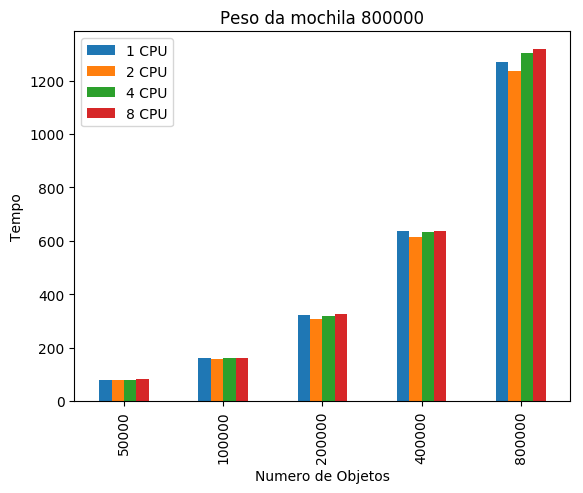
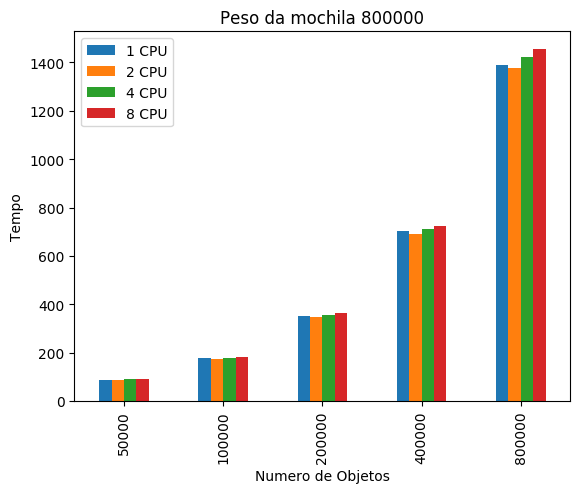
the end

diff --git a/getMetrics.py b/getMetrics.py
@@ -28,7 +28,10 @@ def main():
 		print("./getImportantData <path_to_files.csv>")
 		sys.exit()
 	
-	for weight in [100000,200000,400000,800000]:	
+	mochilas = pd.DataFrame(columns=['N_THREADS','n_obj','time','mean','dp','spUp','eff','weight'])
+	weights = [100000,200000,400000,800000,1600000]
+
+	for weight in weights:	
 		knapsacks = get_files(sys.argv[1],str(weight))
 		timeSum = 0.0
 		times = []
@@ -61,7 +64,6 @@ def main():
 				seq = media[i]
 			speedUp[i] = seq/media[i]
 			efficiency[i] = speedUp[i]/threads[i]
-			print("i: {}\tseq: {}\tthreads[i]: {}\tmedia[i]: {}\t spUp[i]: {}\teff[i]: {}".format(i,seq,threads[i],media[i],speedUp[i],efficiency[i]))
 		
 		df.insert(8,"spUp",speedUp)
 		df.insert(9,"eff",efficiency)
@@ -72,16 +74,16 @@ def main():
 
 		TH1 = df.loc[df['N_THREADS'] == 0]
 		objs = TH1['n_obj'].values.tolist()
-		CPU1 = TH1['time'].values.tolist()
+		CPU1 = TH1['mean'].values.tolist()
 		
 		TH2 = df.loc[df['N_THREADS'] == 2]
-		CPU2 = TH2['time'].values.tolist()
+		CPU2 = TH2['mean'].values.tolist()
 		
 		TH4 = df.loc[df['N_THREADS'] == 4]
-		CPU4 = TH4['time'].values.tolist()
+		CPU4 = TH4['mean'].values.tolist()
 		
 		TH8 = df.loc[df['N_THREADS'] == 8]
-		CPU8 = TH8['time'].values.tolist()
+		CPU8 = TH8['mean'].values.tolist()
 
 
 		graphTime = pd.DataFrame({
@@ -117,7 +119,6 @@ def main():
 			'8 CPU' : spUp8
 		})
 		
-		width = .5
 		graphSpeedUp.plot(kind='bar', width = width)
 		ax = plt.gca()		
 		plt.xlim([-width, len(graphSpeedUp['1 CPU'])-width])
@@ -142,7 +143,6 @@ def main():
 			'8 CPU' : eff8
 		})
 		
-		width = .5
 		graphEff.plot(kind='bar', width = width)
 		ax = plt.gca()		
 		plt.xlim([-width, len(graphEff['1 CPU'])-width])
@@ -154,8 +154,93 @@ def main():
 		plt.savefig('result/graphEff-m{}'.format(weight),bbox_inches='tight')
 		print('result/graphEff-m{}'.format(weight))
 
-		#table = plt.table()
-		#rows = ['T(p)','S(p)','E(p)']
+		df["weight"] = weight
+		objs = df.loc[ df['n_obj'] == 400000 ]
+		mochilas = mochilas.append(objs)
+
+
+	TH1 = mochilas.loc[df['N_THREADS'] == 0]
+	CPU1 = TH1['mean'].values.tolist()
+	
+	TH2 = mochilas.loc[df['N_THREADS'] == 2]
+	CPU2 = TH2['mean'].values.tolist()
+	
+	TH4 = mochilas.loc[df['N_THREADS'] == 4]
+	CPU4 = TH4['mean'].values.tolist()
+	
+	TH8 = mochilas.loc[df['N_THREADS'] == 8]
+	CPU8 = TH8['mean'].values.tolist()
+	
+	mochilasGraphTime = pd.DataFrame({
+	 	'1 CPU' : CPU1,
+	 	'2 CPU' : CPU2,
+	 	'4 CPU' : CPU4,
+	 	'8 CPU' : CPU8
+	})
+
+	mochilasGraphTime.plot(kind='bar', width = width)
+	ax = plt.gca()		
+	plt.xlim([-width, len(mochilasGraphTime['1 CPU'])-width])
+
+	weights = list(map(str,weights))
+	ax.set_xticklabels((weights))
+	ax.set_xlabel('Capacidade das mochilas')
+	ax.set_ylabel('Tempo')
+	ax.set_title('Numero de Objetos {}'.format(400000))
+	plt.savefig('result/mochilasGraphTime',bbox_inches='tight')
+	print('result/mochilasGraphTime')
+
+	
+	spUp1 = TH1['spUp'].values.tolist()
+	spUp2 = TH2['spUp'].values.tolist()
+	spUp4 = TH4['spUp'].values.tolist()
+	spUp8 = TH8['spUp'].values.tolist()
+
+	mochilasGraphSpeedUp = pd.DataFrame({
+	 	'1 CPU' : spUp1,
+	 	'2 CPU' : spUp2,
+	 	'4 CPU' : spUp4,
+	 	'8 CPU' : spUp8
+	})
+
+		
+	mochilasGraphSpeedUp.plot(kind='bar', width = width)
+	ax = plt.gca()		
+	plt.xlim([-width, len(mochilasGraphSpeedUp['1 CPU'])-width])
+
+	ax.set_xticklabels((weights))
+	ax.set_xlabel('Capacidade das mochilas')
+	ax.set_ylabel('Speed Up')
+	ax.set_title('Numero de Objetos {}'.format(400000))
+	plt.savefig('result/mochilasGraphSpeedUp',bbox_inches='tight')
+	print('result/mochilasGraphSpeedUp')
+
+
+	eff1 = TH1['eff'].values.tolist()
+	eff2 = TH2['eff'].values.tolist()
+	eff4 = TH4['eff'].values.tolist()
+	eff8 = TH8['eff'].values.tolist()
+
+	mochilasGraphEff = pd.DataFrame({
+	 	'1 CPU' : eff1,
+	 	'2 CPU' : eff2,
+	 	'4 CPU' : eff4,
+	 	'8 CPU' : eff8
+	})
+
+		
+	mochilasGraphEff.plot(kind='bar', width = width)
+	ax = plt.gca()		
+	plt.xlim([-width, len(mochilasGraphEff['1 CPU'])-width])
+
+	ax.set_xticklabels((weights))
+	ax.set_xlabel('Capacidade das mochilas')
+	ax.set_ylabel('Eficiencia')
+	ax.set_title('Numero de Objetos {}'.format(400000))
+	plt.savefig('result/mochilasGraphEff',bbox_inches='tight')
+	print('result/mochilasGraphEff')
+
+
 		
 main()
 
